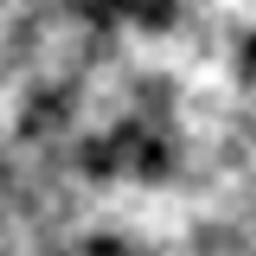
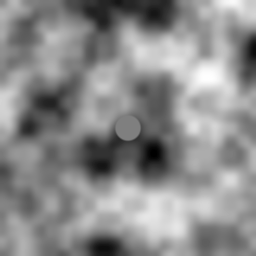
tita noise train, check some fixes

Changed region(s): [[0.4375, 0.4375, 0.5625, 0.5625]]

diff --git a/mujoco_playground/_src/locomotion/tita/joystick.py b/mujoco_playground/_src/locomotion/tita/joystick.py
@@ -59,6 +59,7 @@ def default_config() -> config_dict.ConfigDict:
       ctrl_dt=0.01,
       sim_dt=0.002,
       episode_length=1000,
+      randomize_reset=0.0,
       # Nominal MPC/WBC outer PD: converts the WBC's solved joint accelerations
       # into torque on top of the WBC feedforward. The target is recomputed every
       # physics substep (500 Hz) from the current joint state and the held qddot,
@@ -89,7 +90,7 @@ def default_config() -> config_dict.ConfigDict:
       noise_config=config_dict.create(
           level=1.0,
           scales=config_dict.create(
-              joint_pos=0.03,
+              joint_pos=0.01,
               joint_vel=0.1,
               joint_mpc_pos=0.01,
               joint_mpc_vel=0.1,
@@ -148,7 +149,7 @@ def default_config() -> config_dict.ConfigDict:
           command_lpf=0.02,       # 0.02 = ramp (train/eval/deploy); 1.0 = instant step
           a=[2.5, 0.8],           # full command half-range: vx +-2.0, wz +-0.8 (B's proven range)
           a_learned=[2.0, 0.6],   # survivable inner range
-          p_extend=0.3,           # ~70% of commands in [-a_learned, a_learned], ~30% in
+          p_extend=0.2,           # ~70% of commands in [-a_learned, a_learned], ~30% in
                                   # the extension band [a_learned, a] (either sign), so
                                   # most episodes are survivable (strong, stable signal)
                                   # while the residual still practices the hard region.
@@ -413,12 +414,12 @@ class Joystick(tita_base.TitaEnv):
     # as a hard recovery instead of standing. Lateral (vy) self-damps via wheel
     # friction, so it is kept smaller still.
     rng, key = jax.random.split(rng)
-    vx = jax.random.uniform(key, (1,), minval=-0.2, maxval=0.2)
+    vx = jax.random.uniform(key, (1,), minval=-0.2, maxval=0.2) * self._config.randomize_reset
     rng, key = jax.random.split(rng)
-    vy = jax.random.uniform(key, (1,), minval=-0.1, maxval=0.1)
+    vy = jax.random.uniform(key, (1,), minval=-0.1, maxval=0.1) * self._config.randomize_reset
     #qvel = qvel.at[0:2].set(jp.concatenate([vx, vy]))
     rng, key = jax.random.split(rng)
-    joint_vel = jax.random.uniform(key, shape=qvel[6:].shape, minval=-0.2, maxval=0.2,)
+    joint_vel = jax.random.uniform(key, shape=qvel[6:].shape, minval=-0.2, maxval=0.2,) * self._config.randomize_reset
     qvel = qvel.at[6:].set(joint_vel)
 
     ctrl = jp.zeros(self.mjx_model.nu)
@@ -485,8 +486,8 @@ class Joystick(tita_base.TitaEnv):
     mpc_state = self.mpc.init_state()
     mpc_state, tita_state, dfcip_state, mpc_tau, mpc_qddot, mpc_fl, mpc_fr, desired, theta_prev, mpc_reference, _solver_bad = self._run_mpc_wbc(
         data=data,
-        qpos=qpos_measured,
-        qvel=qvel_measured,
+        qpos=data.qpos,
+        qvel=data.qvel,
         command=cmd,
         base_height_target=base_height_target,
         action=jp.zeros(self.mjx_model.nu),
